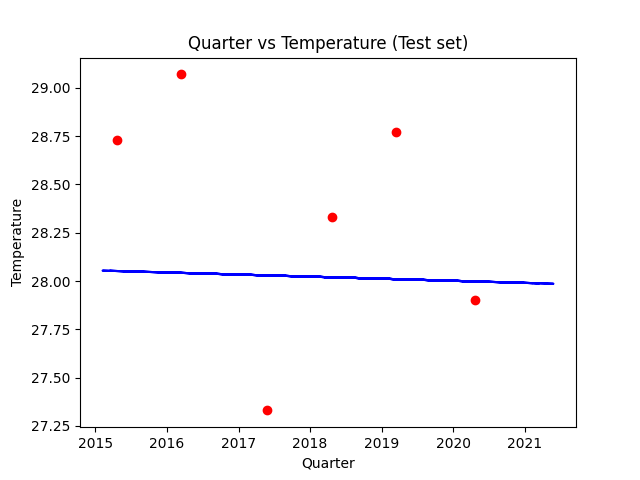
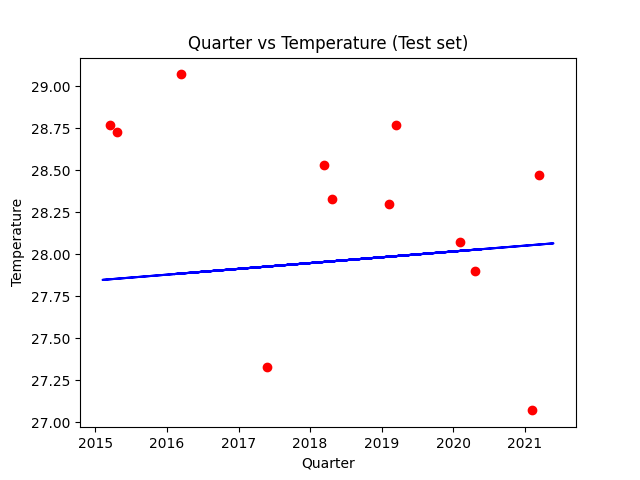
temperature done

diff --git a/flaskUI/app.py b/flaskUI/app.py
@@ -25,9 +25,12 @@ IS_DEV = app.env == 'development'
 imageFolder = os.path.join('static', 'image')
 app.config['UPLOAD_FOLDER'] = imageFolder
 
+#year
+years = [2022.1, 2022.2, 2022.3,2022.4,2023.1,2023.2,2023.3,2023.4]
+
 # Predict tariff based on tempeature
-predictedTemp = 0
-predictedTarriff_temp = 0
+linearResultPredictedTemp =[]
+linearResultPredictedTarriff=[]
 
 #################################################################################
 ############################ HomePage ###########################################
@@ -51,7 +54,7 @@ def temperature():
     conn = None
 
     # linear regression training
-    LR_temperature()
+    lr_temperature()
     # load images
     lr_temp_quarter_train = os.path.join(app.config['UPLOAD_FOLDER'],
                                          'lr_temp_quarter_train.png')
@@ -97,9 +100,22 @@ def temperature():
 
         # Linear
         l_labels = [row[0] for row in linearData]
-        l_labels.append('2022.1')
+        # add years 
+        for x in years:
+            l_labels.append(x)
         l_temperature = [row[1] for row in linearData]
+        temp=[]
+        for x in linearResultPredictedTemp:
+            temp.append(np.round(x,2))
+        for x in temp:
+            l_temperature.append(x)
         l_electricPrice = [row[2] for row in linearData]
+        temp1=[]
+        for x in linearResultPredictedTarriff:
+            temp1.append(np.round(x,2))
+        for x in temp1:
+            l_electricPrice.append(x)
+        
 
         # Non Linear
         nl_labels = [row[0] for row in nonLinearData]
@@ -251,7 +267,7 @@ def maintenance():
 #################################################################################
 ############################ Linear ML Functions ################################
 #################################################################################
-def LR_temperature():
+def lr_temperature():
     # Connect to postgresql Platform
     try:
         conn = psycopg2.connect(
@@ -291,9 +307,9 @@ def LR_temperature():
 
     # split data set to training/test set 80% traning
     X_trainTemp, X_testTemp, y_trainTemp, y_testTemp = train_test_split(
-        XTemp, yTemp, test_size=0.2, random_state=0)
+        XTemp, yTemp, test_size=0.4, random_state=0)
     X_trainTariff, X_testTariff, y_trainTariff, y_testTariff = train_test_split(
-        XTariff, yTariff, test_size=0.2, random_state=0)
+        XTariff, yTariff, test_size=0.4, random_state=0)
 
     # train training set
     regressorTemp = LinearRegression()
@@ -316,9 +332,18 @@ def LR_temperature():
     # get slope:
     print("slope: " + str(regressorTemp.coef_))
     # y = a+bx
-    global predictedTemp
-    predictedTemp = regressorTemp.intercept_ + (regressorTemp.coef_ * 2022.1)
-    print("Predicted Temperature: 2022 Quarter 1: " + str(predictedTemp))
+    global linearResultPredictedTemp 
+    
+    # for x in years:
+    #     predictedTemp = regressorTemp.intercept_ + (regressorTemp.coef_ * x)
+    #     predictedTemp = np.round(predictedTemp,2)
+    #     linearResultPredictedTemp.append(predictedTemp)
+
+    # print(linearResultPredictedTemp)
+
+    # pd.DataFrame({'Actual': y_testTemp.flatten(), 'Predicted': y_predTemp.flatten()})
+
+    linearResultPredictedTemp = y_predTemp.flatten()
 
     # show training set
     plt.scatter(X_trainTemp, y_trainTemp, color='red')
@@ -350,10 +375,15 @@ def LR_temperature():
     print("y intercept: " + str(regressorTariff.intercept_))
     print("slope: " + str(regressorTariff.coef_))
 
-    global predictedTarriff_temp
-    predictedTarriff_temp = regressorTariff.intercept_ + (
-        regressorTariff.coef_ * predictedTemp)
-    print("Predicted Tariff: 2022 Quarter 1: " + str(predictedTarriff_temp))
+    global linearResultPredictedTarriff 
+    linearResultPredictedTarriff = y_predTariff.flatten()
+    # for x in linearResultPredictedTemp:
+    #     predictedTariffTemp = regressorTariff.intercept_ + (
+    #         regressorTariff.coef_ * x)
+    #     predictedTariffTemp = np.round(predictedTariffTemp,2)
+    #     linearResultPredictedTarriff.append(predictedTariffTemp)
+    # print("Predicted Tariff: 2022 Quarter 1: " + str(predictedTariffTemp))
+
 
     plt.scatter(X_trainTariff, y_trainTariff, color='red')
     plt.plot(X_trainTariff,
@@ -381,4 +411,4 @@ if __name__ == 'main':
     assert os.path.exists('.env')  # for other environment variables...
     # HARD CODE since default is production
     os.environ['FLASK_ENV'] = 'development'
-    app.run(debug=True)
+    app.run(hostdebug=True)
